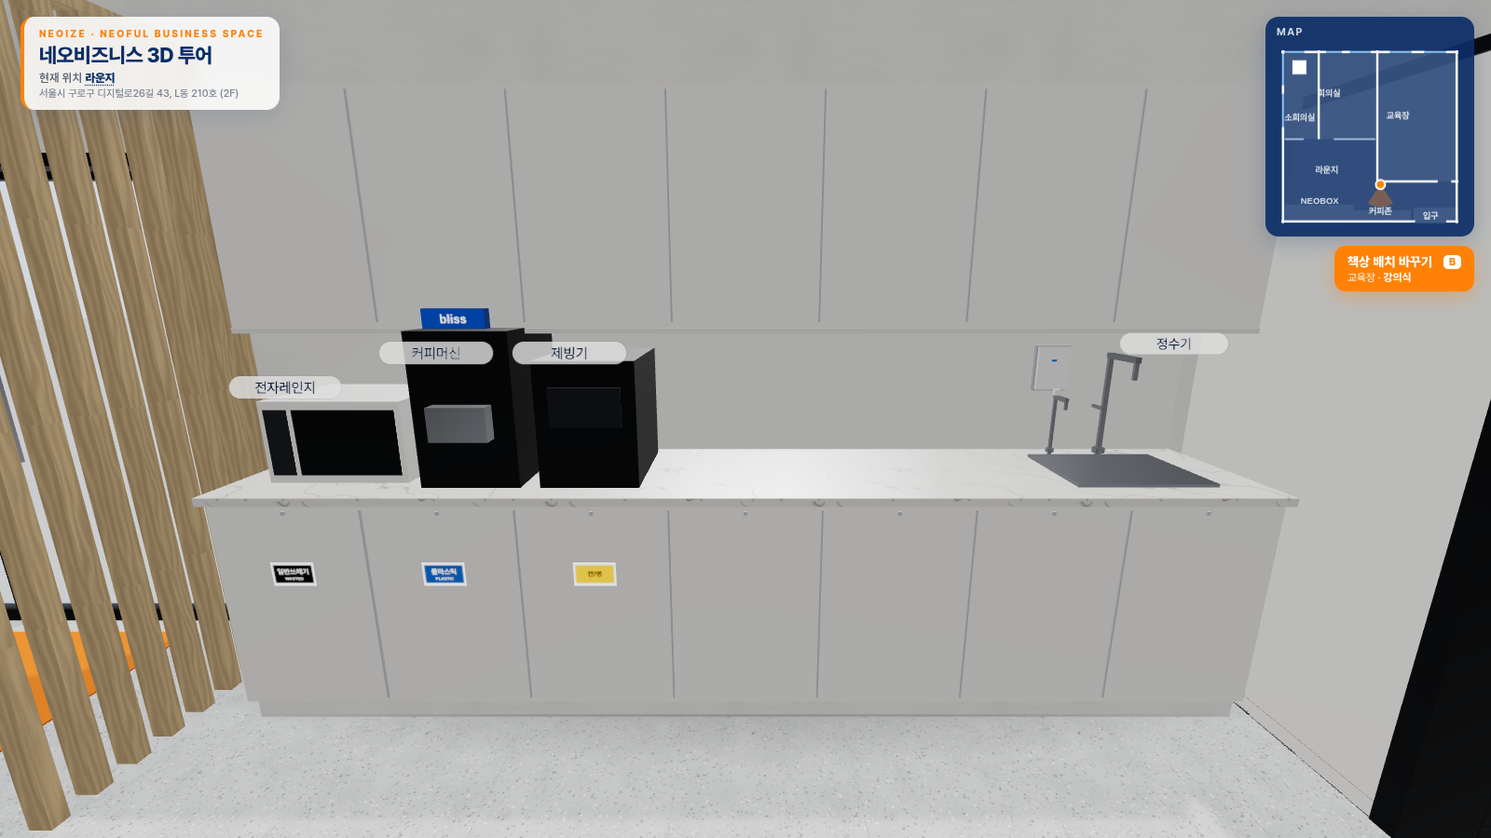
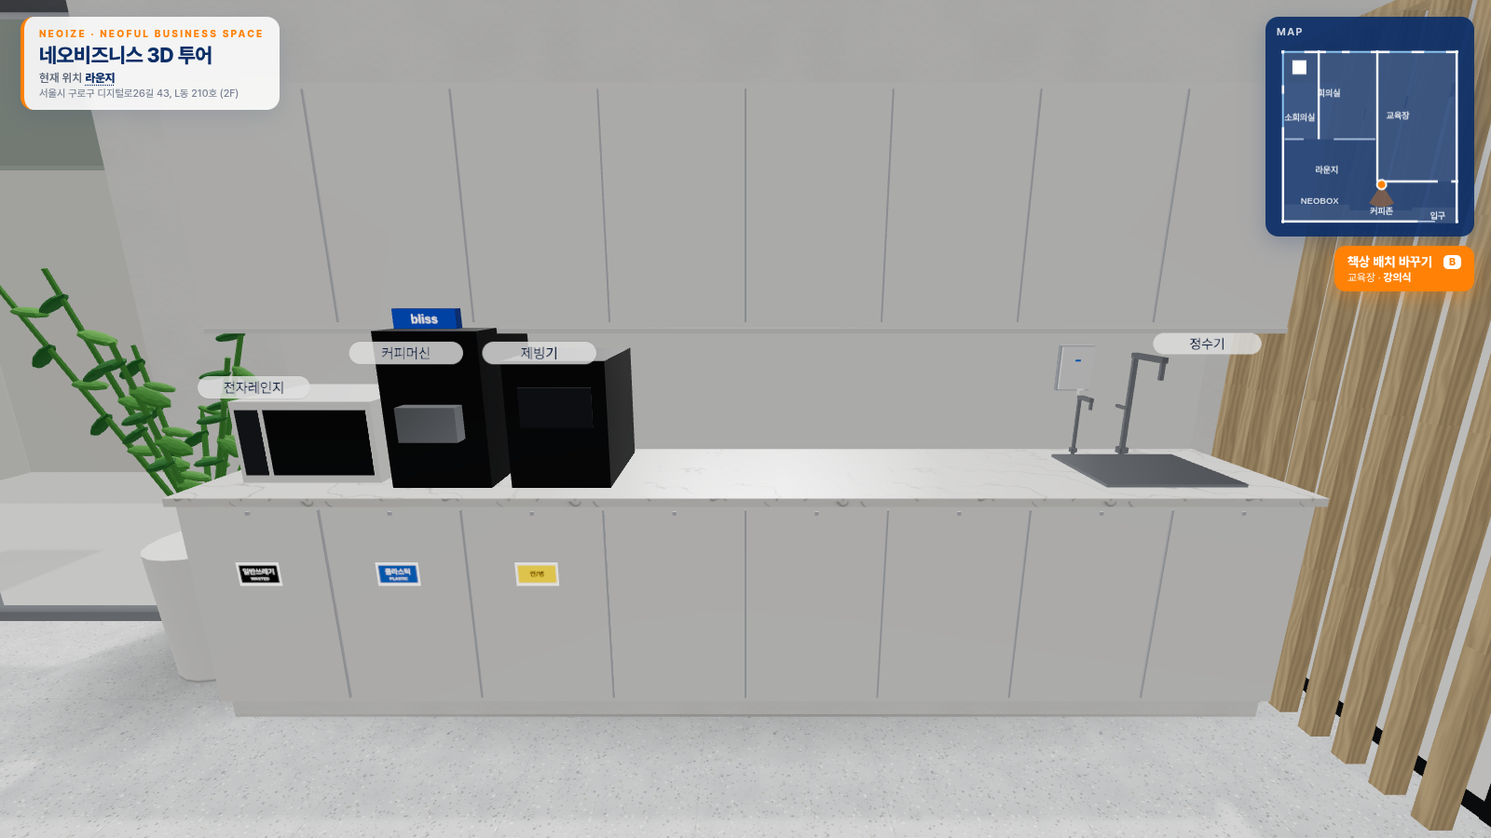
가벽을 NEOBOX와 카운터 사이로, 싱크(정수기) 서쪽 끝, 입구 고정유리+양문·바깥 복도 포털, 단상 축소(뒤 통로)

diff --git a/layout.js b/layout.js
@@ -51,17 +51,17 @@ window.LAYOUT = {
              desc:'Neoful biz space EDUCATION CENTER. 라운지 쪽 출입구에는 백라이트 패널과 TV, 안내 배너가 있고, 내부는 앞쪽에 단상과 와이드 스크린, 화이트 강의용 책상 5줄이 놓인 교육장이에요.',
              use:'교육 · 면접 · 회의(온라인) · 워크숍 · 시상식 · 세미나',
              services:['와이드 스크린','빔프로젝터','무선마이크(2대)','TV 모니터(55인치)','공기청정기','정수기','냉난방 · 시스템 공기청정기','강사 대기석','행사 전 물품 택배 배송 가능'] } },
-    { id:'focus', name:'NEOBOX', en:'Focus Booth · NEOBOX', small:true, rect:[0.24, 10.8, 5.1, 12.1], floor:'floor',
+    { id:'focus', name:'NEOBOX', en:'Focus Booth · NEOBOX', small:true, rect:[0.24, 10.8, 4.8, 12.1], floor:'floor',
       label:[2.7, 10.55], labelY:2.35, jump:{ x:2.7, z:9.7, look:[2.7, 12.0] },
       card:{ photos:['IMG_0398','IMG_0397','IMG_0401','IMG_0403'],
-             desc:'NEOBOX1 · NEOBOX2 · NEOBOX3, 모니터와 책상이 있는 1인용 부스 3개예요. 남쪽 벽을 따라 커피존 카운터 바로 서쪽에 나란히 있어요.' } },
-    { id:'coffee', name:'커피존', en:'Pantry', small:true, rect:[5.1, 11.2, 9.1, 12.1], floor:'floor',
-      label:[6.97, 11.3], labelY:1.6, jump:{ x:7.0, z:9.9, look:[7.0, 11.8] },
+             desc:'NEOBOX1 · NEOBOX2 · NEOBOX3, 모니터와 책상이 있는 1인용 부스 3개예요. 남쪽 벽을 따라 나란히 있고, 동쪽 끝 나무 가벽 너머가 커피존이에요.' } },
+    { id:'coffee', name:'커피존', en:'Pantry', small:true, rect:[4.8, 11.2, 9.2, 12.1], floor:'floor',
+      label:[7.05, 11.3], labelY:1.6, jump:{ x:7.05, z:9.9, look:[7.05, 11.8] },
       card:{ photos:['IMG_0386','IMG_0387','IMG_0398'],
              desc:'공용 사용 공간(LOUNGE & AMENITIES). 흰 상·하부장 카운터에 전자레인지, 커피머신, 얼음 디스펜서, 싱크가 있고 하부장에 분리수거함(일반쓰레기·플라스틱·캔/병)이 있어요. 입구 옆 우드 슬랫 가벽 바로 뒤예요.',
              services:['정수기','커피머신','제빙기','전자레인지','공기청정기','냉난방'] } },
-    { id:'entrance', name:'입구', en:'Entrance', small:true, rect:[9.3, 11.0, 12.45, 12.1], floor:'floor',
-      label:[10.5, 11.6], jump:{ x:10.5, z:11.3, look:[5.0, 7.6] },
+    { id:'entrance', name:'입구', en:'Entrance', small:true, rect:[9.2, 11.0, 12.45, 12.1], floor:'floor',
+      label:[11.0, 11.6], jump:{ x:11.5, z:11.3, look:[11.2, 8.0] },
       card:{ photos:['IMG_0378','IMG_0380','IMG_0388'],
              desc:'유리문 위에 Neoful business space 사인이 있는 입구예요. 들어오면 교육장 앞 디스플레이 월과 배너가 보여요.' } },
     { id:'lounge', name:'라운지', en:'Lounge', rect:[0, 6.22, 12.45, 12.1], floor:'floor',
@@ -110,9 +110,11 @@ window.LAYOUT = {
     { from:[0, 3.05],  to:[0, 5.38],  type:'window', outer:true, style:'tall', blind:0 },      // 소회의실 창 ② — 롤스크린 올림
     { from:[0, 5.38],  to:[0, 5.9],   type:'solid',  outer:true },
     { from:[0, 5.9],   to:[0, 12.1],  type:'solid',  outer:true, molding:'east', moldingFrom:6.35, moldingTo:10.7 },  // 라운지 몰딩 벽 (molding: 몰딩을 붙일 면, From~To 구간)
-    // 바깥벽 — 남쪽(아래), 입구 유리 양문 (동쪽 끝 x9.4–11.6, 가벽 바로 옆)
-    { from:[0, 12.1],  to:[12.45, 12.1], type:'solid', outer:true,
-      openings:[ { at:9.4, width:2.2, door:'glass', double:true, entrance:true } ] },   // 입구 유리 양문 x9.4–11.6: 남쪽 벽 동쪽 끝, 가벽(슬랫 x9.1) 바로 옆 (사용자 스케치 11/19 3차)
+    // 바깥벽 — 남쪽(아래): 서쪽 벽 x0–9.6 | 고정 통유리 x9.6–10.8 | 입구 유리 양문 x10.8–12.25 (사용자 스케치 11/19 4차)
+    { from:[0, 12.1],    to:[9.6, 12.1],   type:'solid', outer:true },
+    { from:[9.6, 12.1],  to:[10.8, 12.1],  type:'glass', style:'clear', outer:true, t:0.24 },   // 입구 왼쪽 고정 통유리(바닥~천장)
+    { from:[10.8, 12.1], to:[12.45, 12.1], type:'solid', outer:true,
+      openings:[ { at:10.8, width:1.45, door:'glass', double:true, entrance:true, frame:'white' } ] },   // 입구 프레임리스 유리 양문
     // 바깥벽 — 동쪽(오른쪽)
     { from:[12.45, 0], to:[12.45, 12.1], type:'solid', outer:true },
 
@@ -128,6 +130,11 @@ window.LAYOUT = {
     { from:[6.75, 9.18], to:[12.45, 9.18], type:'solid', t:0.30, sign:{ text:'EDUCATION CENTER', at:11.475, y:2.33, size:0.1 },   // 문 위 사인
       openings:[ { at:11.0, width:0.95, door:'glass', frame:'white', hinge:'end', swing:-88 } ] }  // 교육장 출입문(남쪽 벽 동쪽 끝). 경첩은 동쪽, 교육장 안으로 88° 열려 동쪽 벽 쪽에 붙음 → 통로 쪽 길을 막지 않음
   ],
+
+  /* 입구 바깥 복도(건물 밖 짧은 복도) + 입구 포털(바깥에서 본 모습, 사용자 사진)
+     rect : 복도 [x1, z1, x2, z2] (z1 = 건물 남쪽 바깥면), portal : 세이지 그린 프레임 x0~x1, door = 양문 [x 시작, x 끝], text = 간판 글씨, room = 호수 */
+  corridor: { rect:[7.8, 12.1, 13.4, 14.3],
+    portal: { x0:9.4, x1:12.45, door:[10.8, 12.25], top:2.12, color:'#9BA59A', text:'Neoful business space', room:'210호' } },
 
   /* 벽 블록(소회의실 안 흰 정사각형) 같은 기둥: rect = [x1,z1,x2,z2], slats = 우드 슬랫을 붙일 면 */
   columns: [
@@ -154,7 +161,7 @@ window.LAYOUT = {
       { x:8.2, z:7.4, len:1.2 }, { x:11.2, z:7.4, len:1.2 }
     ],
     projectors: [
-      { x:9.69, z:5.9, aim:[9.555, 0.64], drop:0.3, color:'black', label:'빔프로젝트' },
+      { x:9.69, z:5.9, aim:[9.555, 0.4], drop:0.3, color:'black', label:'빔프로젝트' },
       { x:4.63, z:4.2, aim:[4.63, 0.59], drop:0.15, color:'white', label:'빔프로젝트' }   // 회의실: 천장 흰색 프로젝터(사진 IMG_0391), 스크린을 향함   // 에어컨 뒤쪽, 내려오는 스크린 정면을 향함
     ],
     downlights: [[7.4, 1.0], [8.2, 1.0], [10.9, 1.0], [11.8, 1.0]],   // 앞쪽 작은 원형 다운라이트
@@ -216,13 +223,13 @@ window.LAYOUT = {
     // 교육장
     { id:'edu_projector', name:'빔프로젝트', room:'교육장', box:[9.4, 5.6, 10.0, 6.15, 2.15, 2.7],
       lines:['연결 케이블: (예: HDMI) — 수정 필요', '리모컨 위치: (예: 강사 단상 서랍) — 수정 필요', '사용 방법: (예: 전원 → 입력 HDMI 선택) — 수정 필요'] },
-    { id:'edu_screen', name:'전동 스크린', room:'교육장', box:[8.3, 0.5, 10.8, 0.8, 1.05, 2.7],
+    { id:'edu_screen', name:'전동 스크린', room:'교육장', box:[8.3, 0.28, 10.8, 0.52, 1.05, 2.7],
       lines:['내리기/올리기: (예: 벽 스위치) — 수정 필요', '크기: 약 2.4m 폭(3D 모델 기준)'] },
     { id:'edu_speaker', name:'스피커', room:'교육장', boxes:[[6.85, 0.2, 7.3, 0.8, 2.2, 2.7], [6.85, 7.9, 7.3, 8.5, 2.2, 2.7]],
       lines:['음량 조절: (예: 앰프·리모컨 위치) — 수정 필요', '마이크: (예: 무선 마이크 2개) — 수정 필요'] },
     { id:'edu_ac', name:'에어컨', room:'교육장', box:[9.15, 3.45, 10.25, 4.55, 2.5, 2.75],
       lines:['리모컨/조작: (예: 출입문 옆 벽 컨트롤러) — 수정 필요'] },
-    { id:'edu_podium', name:'강사 단상', room:'교육장', box:[7.28, 0.58, 8.02, 1.22, 0.15, 1.5],
+    { id:'edu_podium', name:'강사 단상', room:'교육장', box:[7.6, 1.0, 8.3, 1.6, 0.15, 1.5],
       lines:['구성: (예: 노트북 거치, HDMI 단자) — 수정 필요'] },
     { id:'edu_board', name:'유리 화이트보드', room:'교육장', boxes:[[6.88, 1.2, 7.08, 8.8, 0.8, 2.2], [12.08, 1.2, 12.26, 8.8, 0.8, 2.2]],
       lines:['마커·지우개: (예: 레지 위 비치) — 수정 필요'] },
@@ -237,13 +244,13 @@ window.LAYOUT = {
     { id:'mtg_table', name:'회의 테이블', room:'회의실', box:[4.14, 0.78, 5.12, 5.18, 0.6, 0.8],
       lines:['테이블 2개 · 12석', '전원: (예: 테이블 콘센트) — 수정 필요'] },
     // 커피존 (항상 이름 표시)
-    { id:'microwave', name:'전자레인지', room:'커피존', box:[8.19, 11.3, 8.69, 11.8, 0.9, 1.22], label:true,
+    { id:'microwave', name:'전자레인지', room:'커피존', box:[8.37, 11.3, 8.87, 11.8, 0.9, 1.22], label:true,
       lines:['사용 후 문을 닫아 주세요 (예시) — 수정 필요'] },
-    { id:'coffee', name:'커피머신', room:'커피존', box:[7.77, 11.3, 8.12, 11.8, 0.9, 1.62], label:true,
+    { id:'coffee', name:'커피머신', room:'커피존', box:[7.94, 11.3, 8.3, 11.8, 0.9, 1.62], label:true,
       lines:['사용 방법: (예: 컵 올리고 메뉴 선택) — 수정 필요', '원두 보충: (예: 상부장) — 수정 필요'] },
-    { id:'ice', name:'제빙기', room:'커피존', box:[7.35, 11.3, 7.7, 11.8, 0.9, 1.37], label:true,
+    { id:'ice', name:'제빙기', room:'커피존', box:[7.52, 11.3, 7.88, 11.8, 0.9, 1.37], label:true,
       lines:['사용 방법: (예: 컵을 대고 버튼) — 수정 필요'] },
-    { id:'water', name:'정수기', room:'커피존 · 개수대', boxes:[[5.25, 11.3, 5.85, 11.86, 0.88, 1.38]], labelAt:[5.55, 1.42, 11.32], label:true,
+    { id:'water', name:'정수기', room:'커피존 · 개수대', boxes:[[5.22, 11.3, 5.82, 11.86, 0.88, 1.38]], labelAt:[5.52, 1.42, 11.32], label:true,
       lines:['냉수·온수: (예: 온수 잠금 버튼) — 수정 필요'] }
   ],
 
@@ -268,10 +275,10 @@ window.LAYOUT = {
     { type:'cabinet', x:6.05, z:0.45, w:0.9, d:0.4, h:0.6, color:'white' },
 
     /* --- 교육장 (x6.75~12.45, z0~9.18) --- */
-    { type:'stage', x:9.555, z:0.87, w:5.31, d:1.26, h:0.2, top:'darkTop', stepX:0.9 },   // 단상: 북쪽 벽 전체(벽 안쪽 면 사이), z0.24–1.5, 높이 0.2, 계단은 통로 앞
+    { type:'stage', x:9.6, z:1.3, w:4.0, d:0.6, h:0.2, top:'darkTop', stepX:0.9 },   // 단상: x7.6–11.6, z1.0–1.6 (양 끝 0.6m 이상 비워 뒤로 들어갈 수 있음), 높이 0.2 — 뒤(창문 쪽 z0.24–1.0)로 걸어갈 수 있게 깊이를 줄임 (사용자 11/19)
     // 천장 매입형 전동 스크린: 북쪽 벽·창문에서 약 0.4m 앞 천장에서 내려옴 (2.4 × 1.45m, 단상·방 가운데)
-    { type:'ceilingScreen', x:9.555, z:0.64, w:2.4, h:1.45 },
-    { type:'podium', x:7.65, z:0.9, w:0.62, d:0.48, rot:180, elev:0.2 },   // 발표용 강연대 — 단상 왼쪽 (x7.2–8.1, z0.6–1.2)
+    { type:'ceilingScreen', x:9.555, z:0.4, w:2.4, h:1.45 },
+    { type:'podium', x:7.95, z:1.36, w:0.62, d:0.48, rot:180, elev:0.2 },   // 발표용 강연대 — 단상 왼쪽 끝 위 (x7.64–8.26, z1.12–1.6)
     { type:'whiteboard', x:6.92, z:5.0, w:7.4, rot:-90, style:'glass' },   // 서쪽 벽 연두 유리 화이트보드 0.9~2.1m + 레지
     { type:'whiteboard', x:12.19, z:5.0, w:7.4, rot:90, style:'glass' },   // 동쪽 벽도 같은 연두 유리 화이트보드 (단상에서 본 사진 11/19)
     // 수강 책상은 아래 deskLayouts(책상 배치 바꾸기)에서 정해요.
@@ -292,13 +299,13 @@ window.LAYOUT = {
 
     /* --- NEOBOX 부스 (스케치 폭 그대로, 내부 책상·모니터는 폭에 맞게 축소) --- */
     { type:'booth', x:0.97,  z:11.4, w:1.26, d:1.2, label:'NEOBOX1' },   // x0.34–1.60
-    { type:'booth', x:2.685, z:11.4, w:1.29, d:1.2, label:'NEOBOX2' },   // x2.04–3.33
-    { type:'booth', x:4.395, z:11.4, w:1.29, d:1.2, label:'NEOBOX3' },   // x3.75–5.04
+    { type:'booth', x:2.545, z:11.4, w:1.29, d:1.2, label:'NEOBOX2' },   // x1.90–3.19
+    { type:'booth', x:4.135, z:11.4, w:1.29, d:1.2, label:'NEOBOX3' },   // x3.49–4.78 (가벽 x4.95 앞)
 
-    /* --- 커피존 카운터(x5.12–8.82) + 가벽(슬랫 x9.1) + 입구(x9.4–11.6) — 남쪽 벽, 서쪽부터 NEOBOX → 카운터 → 가벽 → 입구 --- */
-    { type:'slats', from:[9.1, 11.85], to:[9.1, 10.85], h:2.45, count:9, thick:true },   // 가벽: 커피존 카운터 동쪽 끝과 입구 사이
-    { type:'pantry', x:6.97, z:11.56, w:3.7 },   // 커피존 카운터 x5.12–8.82: 동쪽(가벽 쪽)부터 전자레인지·커피머신·얼음통 … 서쪽 끝 싱크+정수기
-    { type:'zzPlant', x:12.05, z:11.7, scale:1.25 },   // 흰 화분 ZZ 플랜트 (입구 동쪽 모서리)
+    /* --- 남쪽 벽, 서쪽부터: NEOBOX(x0.34–4.78) → 가벽(슬랫 x4.95) → 커피존 카운터(x5.1–9.0) → 고정 유리(x9.6–10.8) → 입구 양문(x10.8–12.25) --- */
+    { type:'slats', from:[4.95, 11.85], to:[4.95, 10.85], h:2.45, count:9, thick:true },   // 가벽: NEOBOX3 과 커피존 카운터 사이
+    { type:'pantry', x:7.05, z:11.56, w:3.9 },   // 커피존 카운터 x5.1–9.0: 서쪽 끝(가벽 옆) 싱크+정수기 … 동쪽으로 제빙기·커피머신·전자레인지(동쪽 끝)
+    { type:'zzPlant', x:9.32, z:11.68, scale:1.25 },   // 흰 화분 ZZ 플랜트 (카운터 동쪽 끝과 입구 고정 유리 사이)
 
     /* --- 라운지 --- */
     { type:'barCounter', x:0.39, z:8.1, w:0.5, d:3.0, h:1.04 },         // 서쪽 몰딩 벽 바 테이블
@@ -314,6 +321,6 @@ window.LAYOUT = {
     { type:'purifier', x:6.35, z:8.6 },
 
     /* --- 입구 --- */
-    { type:'mat', x:10.5, z:11.4, w:1.8, d:0.9, color:'orange' }
+    { type:'mat', x:11.52, z:11.4, w:1.4, d:0.8, color:'orange' }
   ]
 };

diff --git a/app.js b/app.js
@@ -5,7 +5,7 @@ import { OrbitControls } from 'three/addons/OrbitControls.js';
 import { CSS2DRenderer, CSS2DObject } from 'three/addons/CSS2DRenderer.js';
 import { RoomEnvironment } from 'three/addons/RoomEnvironment.js';
 import { mergeGeometries } from 'three/addons/BufferGeometryUtils.js';
-import { makeTextures, textTexture } from './textures.js?v=11191330';
+import { makeTextures, textTexture } from './textures.js?v=11191345';
 
 const L = window.LAYOUT, B = L.building, H = B.ceiling, EYE = B.eye || 1.6, W = B.width, D = B.depth;
 const TW = Object.assign({ exterior: 0.24, interior: 0.14, thick: 0.3 }, B.wall || {});
@@ -133,6 +133,14 @@ function door(hx, hz, w, baseRad, swingRad, leafMat, frameMat, style) {
     for (const sd of [-1, 1]) { box(0.022, 0.3, 0.022, M.black, hx, 0.9, sd * 0.055, g); box(0.02, 0.02, 0.06, M.black, hx, 0.92, sd * 0.03, g); box(0.02, 0.02, 0.06, M.black, hx, 1.16, sd * 0.03, g); }
     return { g, base: baseRad, swing: swingRad };
   }
+  if (style && style.entrance) {   // 입구 프레임리스 유리 양문(사용자 사진): 통유리 + 상·하 금속 패치, 가운데 쪽 세로 스테인리스 바 손잡이, 디지털 도어락
+    const lh = 2.08; const p = new THREE.Mesh(new THREE.BoxGeometry(w - 0.02, lh - 0.02, 0.012), M.glass); p.position.set(w / 2, lh / 2 + 0.01, 0); g.add(p);
+    box(0.18, 0.06, 0.03, M.metal, 0.1, 0.02, 0, g); box(0.18, 0.06, 0.03, M.metal, 0.1, lh - 0.07, 0, g);
+    const hx = w - 0.1;
+    for (const sd of [-1, 1]) { cyl(0.014, 0.014, 1.3, M.metal, hx, 0.4, sd * 0.06, 12, g); box(0.02, 0.02, 0.06, M.metal, hx, 0.5, sd * 0.03, g); box(0.02, 0.02, 0.06, M.metal, hx, 1.6, sd * 0.03, g); }
+    box(0.055, 0.15, 0.03, M.black, hx - 0.09, 0.98, 0.02, g); box(0.055, 0.15, 0.03, M.black, hx - 0.09, 0.98, -0.02, g);   // 도어락(안·밖)
+    return { g, base: baseRad, swing: swingRad };
+  }
   const leaf = new THREE.Mesh(new THREE.BoxGeometry(w - 0.04, 2.04, 0.02), leafMat); leaf.position.set(w / 2, 1.04, 0); g.add(leaf);
   box(w, 0.045, 0.05, frameMat, w / 2, 2.04, 0, g); box(w, 0.06, 0.05, frameMat, w / 2, 0, 0, g);
   box(0.045, 2.1, 0.05, frameMat, 0.022, 0, 0, g); box(0.045, 2.1, 0.05, frameMat, w - 0.022, 0, 0, g);
@@ -179,6 +187,12 @@ function wallPiece(horiz, a0, a1, fixed, t, type, wo = {}, inward = 0) {
     const n = Math.max(1, Math.round(len / 1.3));
     for (let i = 0; i <= n; i++) { const f = a0 + len * i / n; box(0.05, head - sill, 0.05, M.frame, horiz ? f : cx, sill, horiz ? cz : f); }
     const [bw, bd] = sz(len, 0.1); box(bw, 0.11, bd, M.white, cx, head - 0.16, cz);          // 롤 블라인드 박스
+    return;
+  }
+  if (wo.style === 'clear') {   // 입구 옆 고정 통유리(바닥~천장): 투명 유리 한 장 + 가는 금속 프레임
+    const [pw, pd] = sz(len, 0.02); const p = new THREE.Mesh(new THREE.BoxGeometry(pw, H - 0.04, pd), M.glass); p.position.set(cx, H / 2, cz); root.add(p);
+    const [fw, fd] = sz(len, 0.06); box(fw, 0.05, fd, M.metal, cx, 0, cz); box(fw, 0.05, fd, M.metal, cx, H - 0.05, cz);
+    for (const f of [a0 + 0.02, a1 - 0.02]) box(horiz ? 0.04 : 0.06, H, horiz ? 0.06 : 0.04, M.metal, horiz ? f : cx, 0, horiz ? cz : f);
     return;
   }
   if (wo.style === 'band') {   // 라운지 쪽 유리 파티션 (사용자 사진): 바닥~천장 유리, 블랙 알루미늄 프레임, 0.9~2.0m 반투명 시트 띠(+선택: 위쪽 가는 줄무늬)
@@ -244,8 +258,9 @@ for (const w of L.walls) {
       registerDoor([door(horiz ? hp : fixed, horiz ? fixed : hp, len, start ? baseStart : baseEnd, sw, M.glass, fm, { frameless: true, band: w.band, stripes: w.stripes })], o.open === true, o.name);
     } else if (o.double) {
       const hw = len / 2, sw = (o.swing || 80) * DEG;
-      registerDoor([door(horiz ? o.at : fixed, horiz ? fixed : o.at, hw, baseStart, -sw, leafMat, fm),
-                    door(horiz ? o.at + len : fixed, horiz ? fixed : o.at + len, hw, baseEnd, sw, leafMat, fm)], o.open === true, o.name);
+      const st = o.entrance ? { entrance: true } : undefined;
+      registerDoor([door(horiz ? o.at : fixed, horiz ? fixed : o.at, hw, baseStart, -sw, leafMat, fm, st),
+                    door(horiz ? o.at + len : fixed, horiz ? fixed : o.at + len, hw, baseEnd, sw, leafMat, fm, st)], o.open === true, o.name);
     } else {
       const start = (o.hinge || 'start') === 'start', sw = (o.swing || 80) * DEG;
       const hp = start ? o.at : o.at + len;
@@ -636,6 +651,32 @@ function place(o, parent = root) {
   const g = grp(o.x, o.z, o.rot || 0, parent); if (o.elev) g.position.y = o.elev; fn(g, o);
   if (parent === root && !NOBLOB.has(o.type) && !g.userData.noBlob) blobs.push(g);
 }
+/* ---------------- 바깥 복도 + 입구 포털 (layout.js 의 corridor) ---------------- */
+if (L.corridor) {
+  const cr = L.corridor.rect, cw = cr[2] - cr[0], cd = cr[3] - cr[1], ccx = (cr[0] + cr[2]) / 2, ccz = (cr[1] + cr[3]) / 2;
+  box(cw, 0.02, cd, plain(0xc9c6bf), ccx, -0.02, ccz).userData.floor = true; box(cw + 0.1, 0.3, cd, M.cap, ccx, -0.32, ccz);
+  box(cw, 0.04, cd, M.ceiling, ccx, H, ccz);
+  box(cw + 0.24, H, 0.16, plain(0xe9e6df), ccx, 0, cr[3] + 0.08);                          // 복도 맞은편 벽
+  box(0.16, H, cd, plain(0xe9e6df), cr[0] - 0.08, 0, ccz); box(0.16, H, cd, plain(0xe9e6df), cr[2] + 0.08, 0, ccz);   // 복도 양 끝 벽
+  for (let x = cr[0] + 1; x < cr[2] - 0.5; x += 2) { const m = new THREE.Mesh(new THREE.BoxGeometry(0.6, 0.02, 0.6), new THREE.MeshBasicMaterial({ color: 0xffffff })); m.position.set(x, H - 0.02, ccz); m.userData.keep = true; root.add(m); }
+  const P = L.corridor.portal;
+  if (P) {   // 입구 바깥 면: 세이지 그린 포털 프레임 + 위 간판 "Neoful business space" + 210호 + 카드리더 + 경광등
+    const sage = plain(new THREE.Color(P.color || '#9BA59A').getHex()), zf = cr[1], x0 = P.x0, x1 = P.x1, top = P.top ?? 2.12;
+    box(0.2, H, 0.08, sage, x0 + 0.1, 0, zf + 0.04); box(0.2, H, 0.08, sage, x1 - 0.1, 0, zf + 0.04);   // 좌우 기둥
+    box(x1 - x0, H - top, 0.1, sage, (x0 + x1) / 2, top, zf + 0.05);                                    // 위 간판 판
+    { const c = document.createElement('canvas'); c.width = 1536; c.height = 256; const k = c.getContext('2d');
+      k.fillStyle = '#111'; k.font = 'italic 900 128px Pretendard, sans-serif'; k.textAlign = 'center'; k.textBaseline = 'middle'; k.fillText(P.text || 'Neoful business space', 750, 136, 1400);
+      const t = new THREE.CanvasTexture(c); t.colorSpace = THREE.SRGBColorSpace; t.anisotropy = 4;
+      const hh = (H - top) * 0.7, ww = Math.min(x1 - x0 - 0.3, hh * 6);
+      const m = new THREE.Mesh(new THREE.PlaneGeometry(ww, ww / 6), new THREE.MeshBasicMaterial({ map: t, transparent: true, depthWrite: false })); m.position.set((x0 + x1) / 2, top + (H - top) / 2, zf + 0.102); m.userData.keep = true; m.renderOrder = 10; root.add(m); }
+    if (P.room) { const c = document.createElement('canvas'); c.width = 256; c.height = 96; const k = c.getContext('2d'); k.fillStyle = '#111'; k.font = '800 64px Pretendard, sans-serif'; k.textBaseline = 'middle'; k.fillText(P.room, 10, 50);
+      const t = new THREE.CanvasTexture(c); t.colorSpace = THREE.SRGBColorSpace; const m = new THREE.Mesh(new THREE.PlaneGeometry(0.24, 0.09), new THREE.MeshBasicMaterial({ map: t, transparent: true, depthWrite: false }));
+      m.position.set(P.door[0] + 0.15, top + 0.08, zf + 0.102); m.userData.keep = true; m.renderOrder = 10; root.add(m); }
+    box(0.07, 0.11, 0.025, M.black, x1 - 0.1, 1.15, zf + 0.09); box(0.04, 0.02, 0.005, plain(0x2b8cff), x1 - 0.1, 1.23, zf + 0.104);   // 카드 리더
+    cyl(0.04, 0.045, 0.07, std({ color: 0xff7a1a, emissive: 0xff5a00, emissiveIntensity: 0.8 }), x1 - 0.1, top + 0.33, zf + 0.14, 16);   // 경광등
+    box(0.08, 0.03, 0.06, M.black, x1 - 0.1, top + 0.3, zf + 0.12);
+  }
+}
 for (const f of L.furniture) place(f);
 for (const sp of (L.speakers || [])) place(Object.assign({ type: 'speaker' }, sp));
 /* 교육장 책상 배치: 배치마다 따로 그룹을 만들고 하나만 보이게(충돌도 보이는 배치만) */
@@ -718,7 +759,7 @@ const PR = 0.24;
 const circleHits = (x, z, a, b, c, d) => { const cx = Math.max(a, Math.min(x, c)), cz = Math.max(b, Math.min(z, d)); return (x - cx) ** 2 + (z - cz) ** 2 < PR * PR; };
 const doorClosed = (d, plan) => d.target === 0 || (!plan && d.cur < 0.85);
 function blocked(x, z, plan = false) {
-  if (x < PR || z < PR || x > W - PR || z > D - PR) return true;
+  if (x < PR || z < PR || x > W - PR || z > D - PR) { const cr = L.corridor?.rect; if (!(cr && x > cr[0] + PR && x < cr[2] - PR && z >= D - PR && z < cr[3] - PR)) return true; }
   for (const d of DOORS) if (doorClosed(d, plan) && circleHits(x, z, d.box.min.x, d.box.min.z, d.box.max.x, d.box.max.z)) return true;
   const dc = DESK_COLL[deskIdx]; if (dc && x > 6.6 && z < 9.4) for (const [a, b, c, d] of dc) { const cx = Math.max(a, Math.min(x, c)), cz = Math.max(b, Math.min(z, d)); if ((x - cx) ** 2 + (z - cz) ** 2 < PR * PR) return true; }
   const gx = Math.floor(x / CELL), gz = Math.floor(z / CELL);
@@ -854,7 +895,7 @@ function updateDoors(dt) {
   }
 }
 doorBtn.addEventListener('pointerdown', (e) => { e.stopPropagation(); e.preventDefault(); toggleDoor(nearDoor); });
-window.__doors = DOORS;
+window.__doors = DOORS; window.__blocked = (x, z) => blocked(x, z);
 
 /* ---------------- player / modes / flights ---------------- */
 const player = { x: 0, z: 0, yaw: 0, pitch: -0.04 }; window.__player = player;

diff --git a/index.html b/index.html
@@ -144,8 +144,8 @@ body.walk .tag{display:none}   /* 걷기: 방 이름 핀은 숨기고 왼쪽 위
   </div>
 </aside>
 <!-- 공간 설정: 치수·가구 배치는 layout.js 에서 수정 -->
-<script src="layout.js?v=11191330"></script>
+<script src="layout.js?v=11191345"></script>
 <script type="importmap">{"imports":{"three":"./lib/three.module.min.js","three/addons/":"./lib/addons/"}}</script>
-<script type="module" src="app.js?v=11191330"></script>
+<script type="module" src="app.js?v=11191345"></script>
 </body>
 </html>

diff --git a/수정방법.md b/수정방법.md
@@ -276,7 +276,9 @@ ceiling: { panels:[ { rect:[x1,z1,x2,z2], nx:2, nz:3 } ],  aircon:[[x,z], ...] }
 - 처음 들어간 안내 문구의 `(예: …) — 수정 필요` 는 예시이니 실제 내용(케이블 종류, 리모컨 위치 등)으로 바꿔 주세요.
 - 정수기는 개수대에 있습니다(`pantry`): 높은 크롬 수전 옆의 작은 정수 꼭지 + 백스플래시의 흰 정수기 본체. 툴팁/라벨 상자도 개수대 위에 있습니다.
 
-## 남쪽 벽 배치 (11/19 스케치 3차)
-- 서쪽부터 NEOBOX 1·2·3(x0.34–5.04) → 커피존 카운터 `pantry`(x5.12–8.82, 중심 x6.97, 폭 3.7) → 가벽 슬랫(x9.1) → 입구 유리 양문(x9.4–11.6, 남쪽 벽 `openings` 의 `at:9.4, width:2.2`).
-- 카운터는 동쪽(가벽 쪽) 끝부터 전자레인지·커피머신·제빙기, 서쪽 끝에 싱크+정수기 꼭지. 카운터를 옮기면 `equipment` 의 커피존 상자(box)도 같이 옮겨 주세요.
+## 남쪽 벽 배치 (11/19 스케치 4차)
+- 서쪽부터 NEOBOX 1·2·3(x0.34–4.78) → 가벽 슬랫(x4.95) → 커피존 카운터 `pantry`(x5.1–9.0, 중심 x7.05, 폭 3.9) → ZZ 화분(x9.32) → 고정 통유리(x9.6–10.8, 벽 `style:'clear'`) → 입구 유리 양문(x10.8–12.25).
+- 카운터는 서쪽(가벽 옆) 끝에 싱크+정수기 꼭지, 동쪽으로 제빙기·커피머신·전자레인지(동쪽 끝). 카운터를 옮기면 `equipment` 의 커피존 상자(box)도 같이 옮겨 주세요.
+- 입구 바깥에 짧은 복도(`corridor.rect`)가 있고, 바깥 면에 세이지 그린 포털(`corridor.portal`: 간판 글씨 text, 호수 room, 색 color)이 붙어 있어요. 걷기 모드에서 입구 문을 E로 열면 복도로 나갈 수 있어요.
 - 교육장 스피커는 서쪽 벽 높은 곳 2개(z0.5, z8.2) — `speakers` 목록.
+- 교육장 단상은 x7.6–11.6, z1.0–1.6(높이 0.2). 뒤쪽(창문 쪽 z0.24–1.0)과 양 끝을 비워 단상 뒤로 걸어갈 수 있어요. 전동 스크린은 z0.4.
